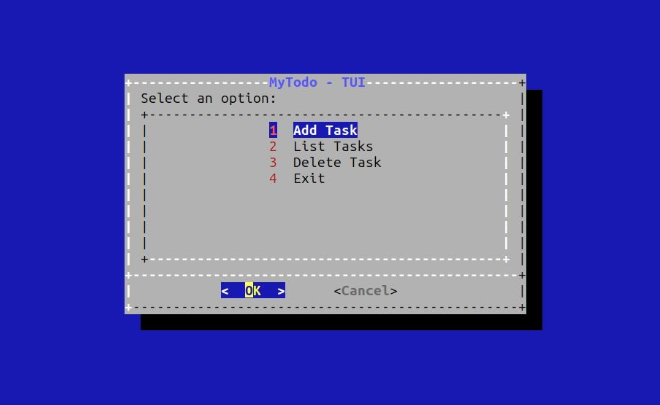
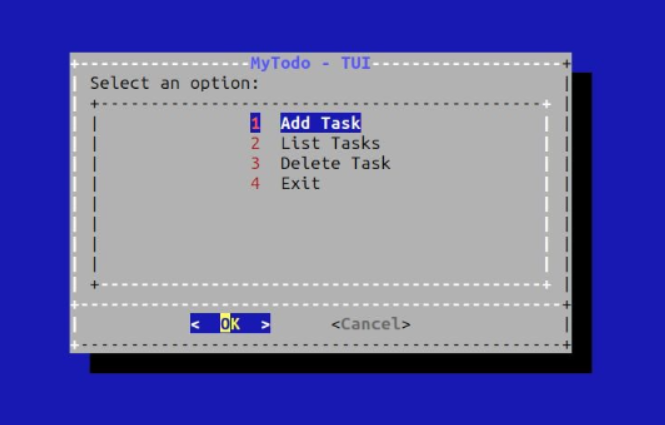
changes in cli image

Changed region(s): [[0.0909, 0.1185, 0.9091, 0.8889]]

diff --git a/index.html b/index.html
@@ -233,7 +233,7 @@
                 <div class="card gnani">
                     <div class="card-inner">
                          <div class="card-image">
-                            <img src="CLI-TOOl-Gnani.png" alt="Rakshitha">
+                            <img src="CLI-TOOl-Gnani.jpg" alt="Rakshitha">
                          </div>
                     <div class="card-content">
                          <h4>MyTodo CLI Tool</h4> 
